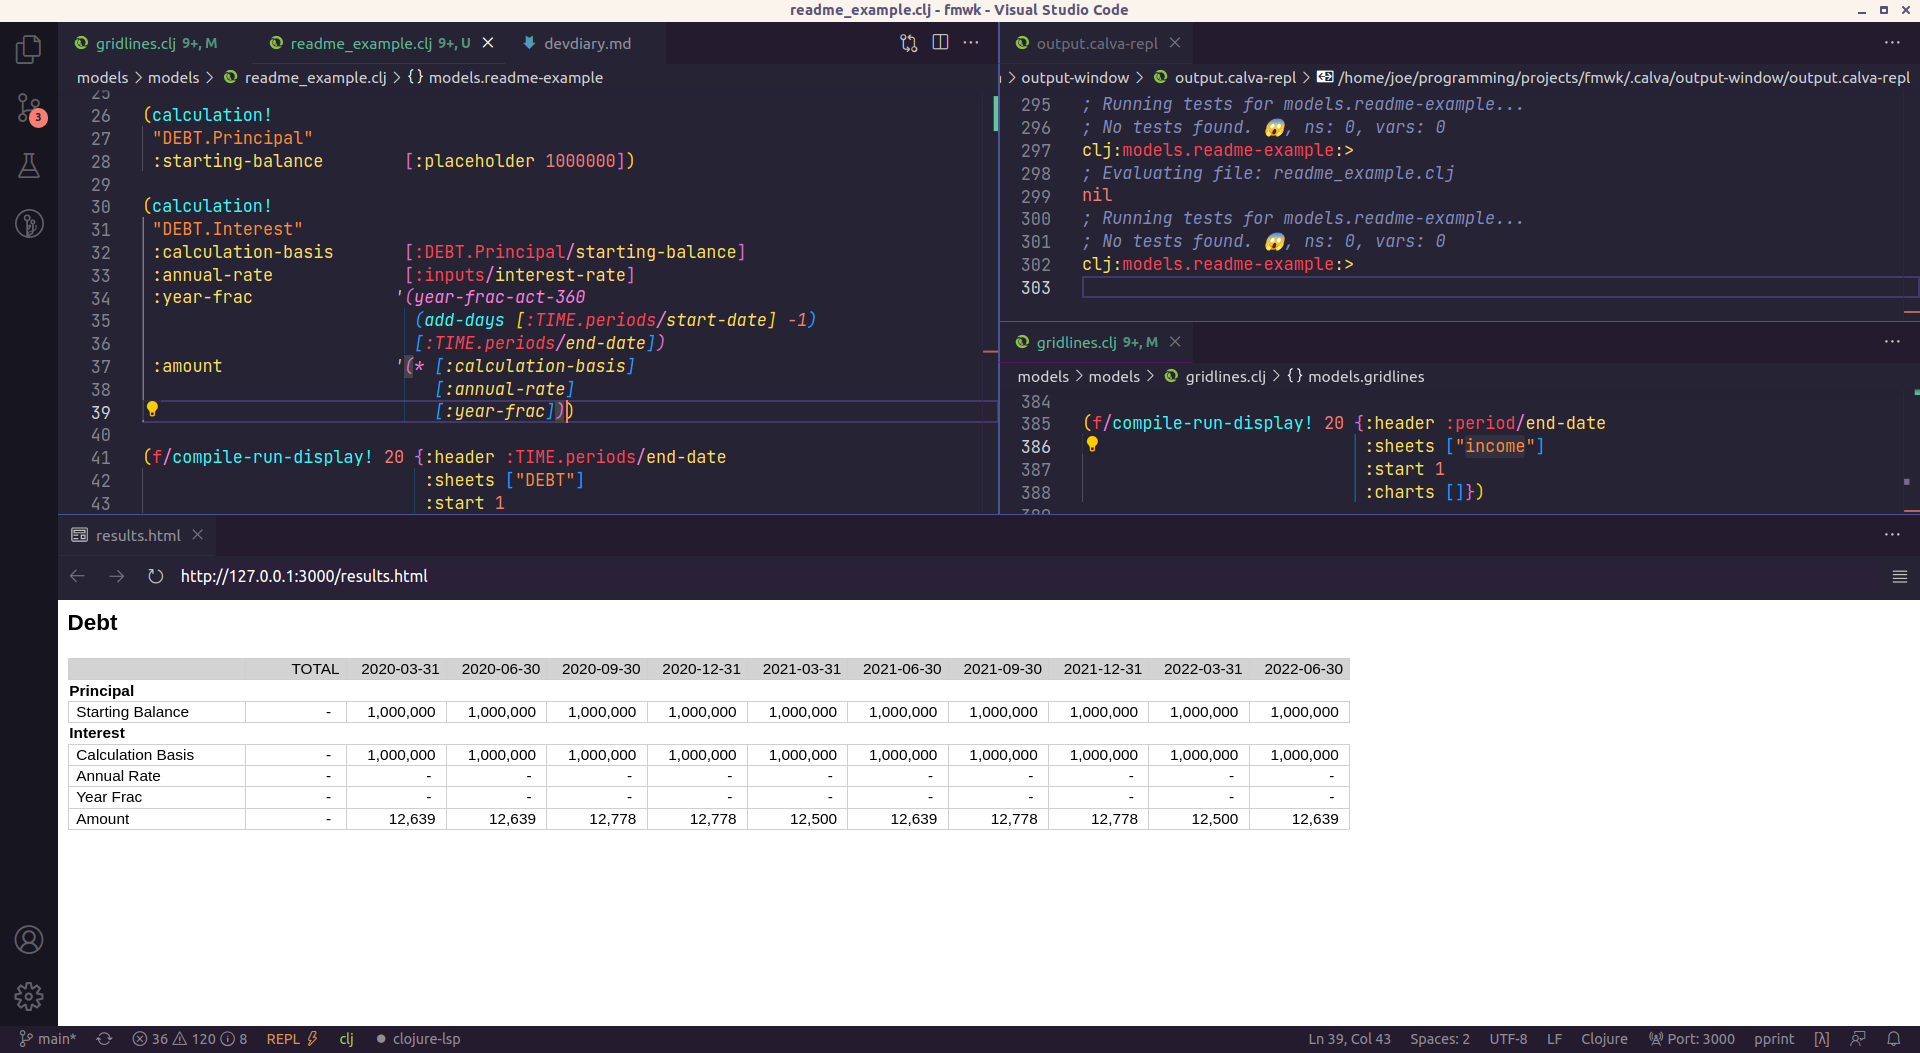
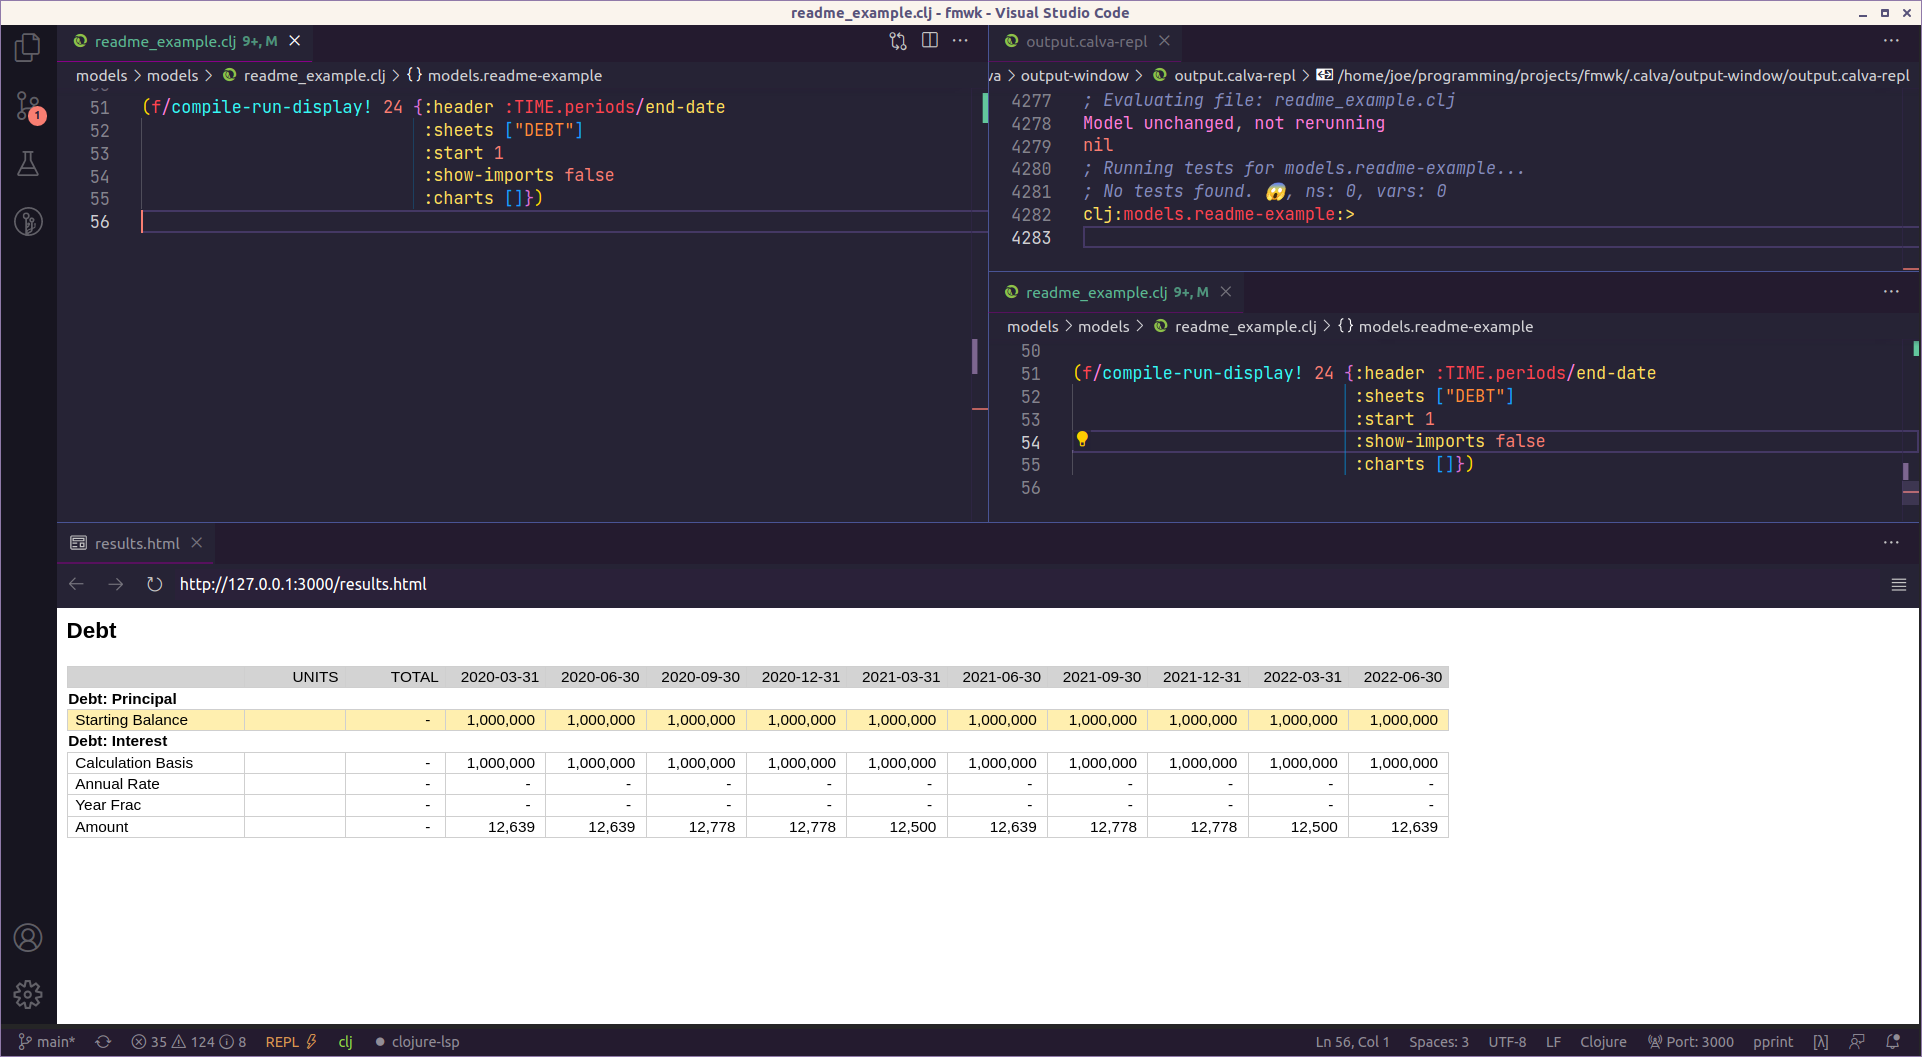
update readme

diff --git a/README.md b/README.md
@@ -218,6 +218,8 @@ Notice the correspondence between the options map and results:
 
 We specified the header as the period end date, and said we wanted to see the Debt sheet, and start at period 1 (The default is to display 10 periods). The results have done all that, including showing sub-headings for the two calculation, Principal and Interest.
 
+Note as well that the Placeholder we put in has been highlighted in yellow. This is a visual indicator that you'll need to go back and fill this in. 
+
 However this doesn't look great. The Annual rate and Year Frac are not showing because they're being rounded to zero, there is no total for the interest amount, and the calculation basis is superfluous. We can fix this by adding some metadata:
 
 ```clojure
@@ -225,7 +227,7 @@ However this doesn't look great. The Annual rate and Year Frac are not showing b
  "DEBT.Interest"
  :calculation-basis {:hidden true}
  :annual-rate       {:units :percent}
- :year-frac         {:units :factor :total true}
+ :year-frac         {:units :factor}
  :amount            {:units :currency :total true})
 ```
 
